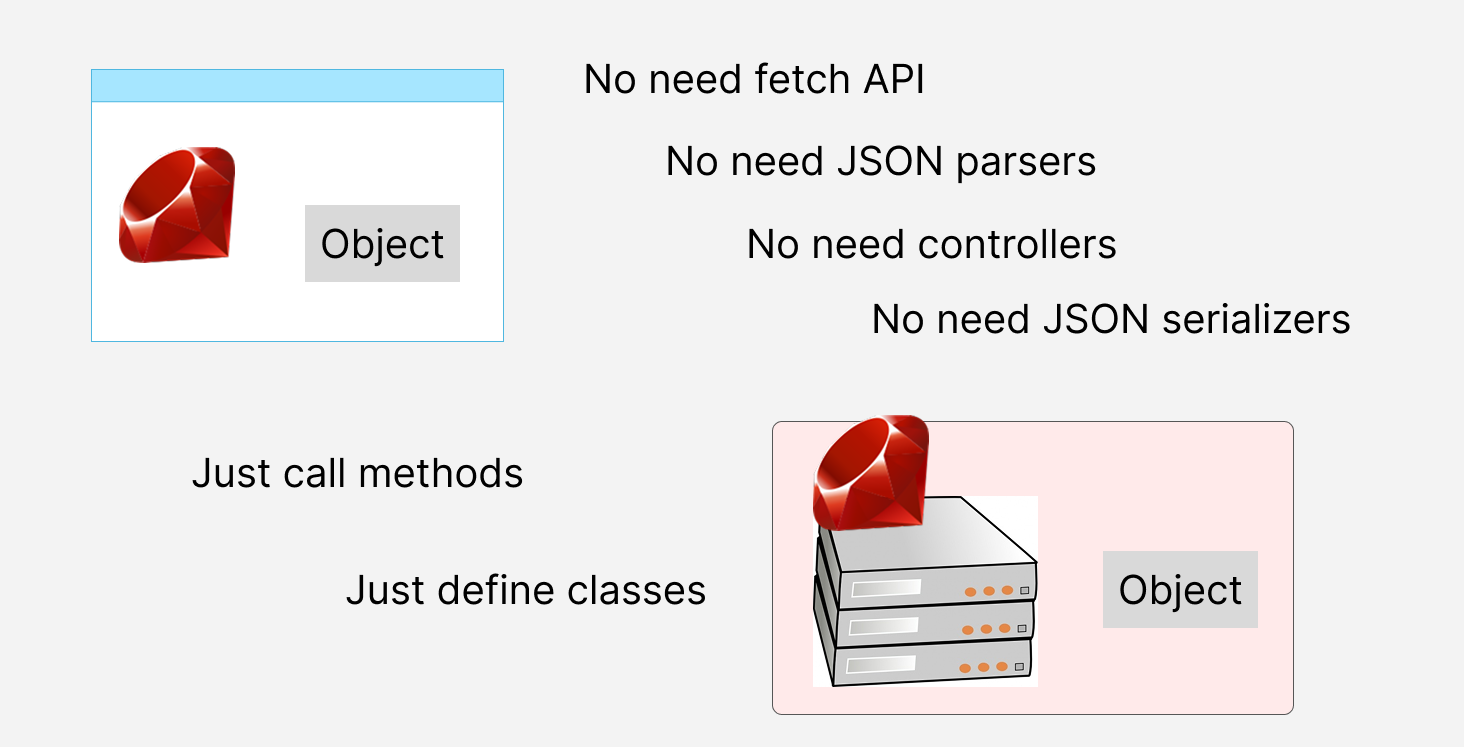
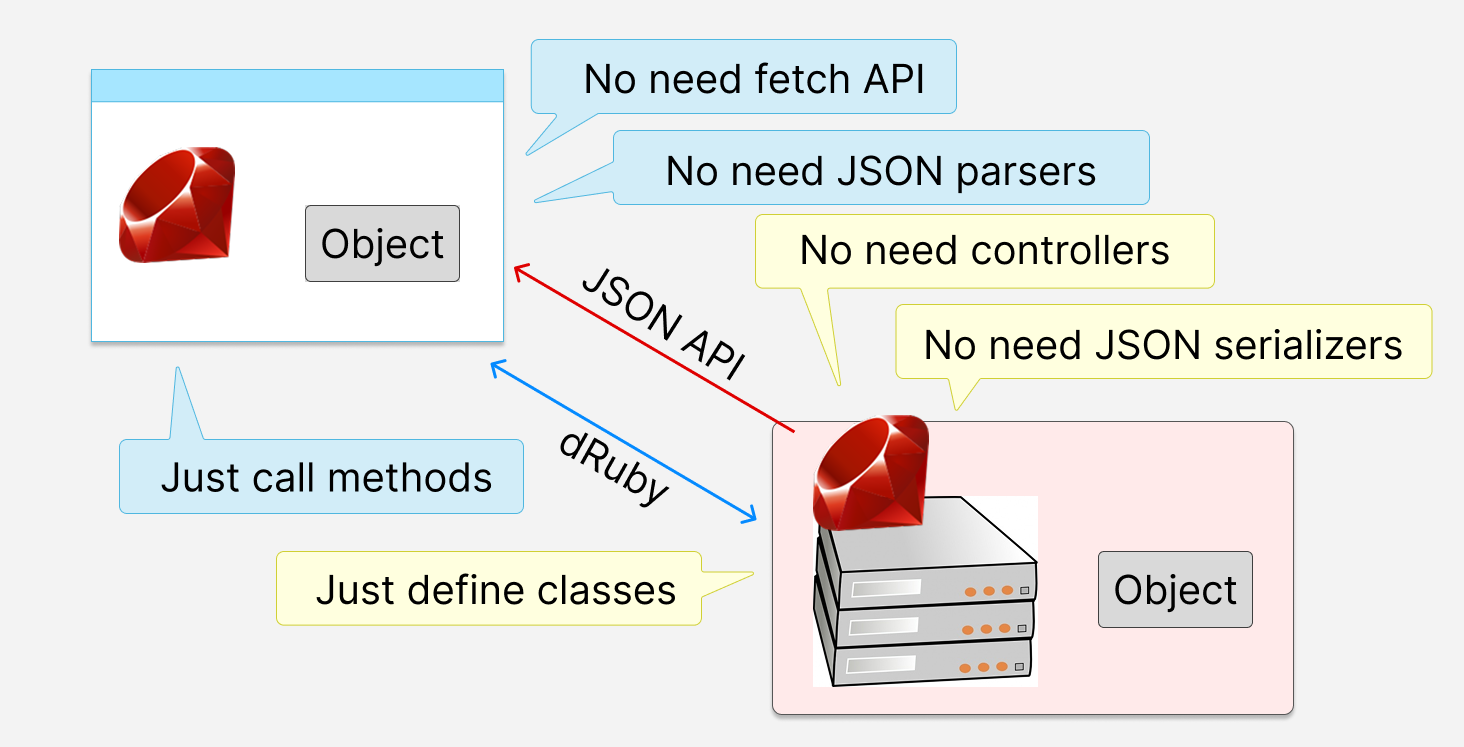
Slide update

diff --git a/public/css/custom.css b/public/css/custom.css
@@ -9,20 +9,72 @@
 }
 
 #cover .page-header {
-  top: 20%;
+  top: 12%;
 }
 
 .slide .page-header {
   margin-top: 2em;
-  margin-bottom: 1em;
+}
+
+#cover .page-content {
+  position: relative;
+  margin-top: 3em;
 }
 
 #cover .author {
-  margin-top: 4em;
-  left: 25m;
+  position: relative;
+  float: right;
+  margin-top: 3em;
+  right: 3em;
 }
 
 #cover .icon {
   position: relative;
-  left: 25em; 
+  top: 10px;
+  left: 30em; 
+}
+
+#cover .icon img {
+  width: 128px;
+}
+
+.QR img {
+  margin: auto;
+  display: block;
+  width: 35%;
+}
+
+.whats_ruby_wasm img {
+  margin: auto;
+  display: block;
+}
+
+.whats_druby img {
+  margin: auto;
+  display: block;
+  width: 80%;
+}
+
+.No_need_JSON_API img {
+  margin: auto;
+  display: block;
+  width: 80%;
+}
+
+.Share_objects img {
+  margin: auto;
+  display: block;
+  width: 80%;
+}
+
+.gibier2 img {
+  margin: auto;
+  display: block;
+  width: 75%;
+}
+
+.center {
+  text-align: center;
+  font-size: 120%;
+  margin-top: 2em;
 }

diff --git a/slide.md b/slide.md
@@ -1,6 +1,9 @@
 # dRuby on Browser Again! {#cover}
 %author: Yoh Osaki a.k.a @youchan
+%author: Shigeru Nakajima a.k.a @ledsun
 ![icon](images/youchan_square.jpeg)
+![icon](images/ledsun.png)
+
 ## Who am I
 
 - youchan
@@ -15,25 +18,25 @@
 
 ---
 
-![ruby.wasm loves dRuby](images/ruby.wasm_loves_dRuby.png)
+![ruby.wasm_loves_dRuby](images/ruby.wasm_loves_dRuby.png)
 
 ## What's ruby.wasm
 
-![what's ruby.wasm](images/whats_rubywasm.png)
+![whats_ruby_wasm](images/whats_rubywasm.png)
 
 ## What's dRuby
 
-![what's dRuby](images/whats_druby.png)
+![whats_dRuby](images/whats_druby.png)
 
 # Why? dRuby with ruby.wasm
 
 ## No need JSON API
 
-![No need JSON API](images/no_need_json_api.png)
+![No_need_JSON_API](images/no_need_json_api.png)
 
 ## Easy to share objects inter browsers
 
-![Share objects](images/share_objects.png)
+![Share_objects](images/share_objects.png)
 
 # Demo
 
@@ -74,9 +77,13 @@ remote.each do |x|
 end
 ```
 
-# Demo
+## Demo
+
+![QR](images/qr-niconico-drb.svg)
 
 ## Gibier2
+
+![gibier2](images/gibier2.png)
 
 ## Async probrems
 - The interface changes depending on whether it is stub object or not.
@@ -103,6 +110,14 @@ buttonel.addEventListener('click') do
   end.transfer
 end
 ```
+## Conclusion
+
+- The advantages of combining dRuby and ruby.wasm were explained.
+- I introduced `drb-websocket` and `wasm_drb`, a set of tools to realize dRuby in Browser.
+- The demonstrations and the tool were presented to show how it actually work.
+- I pointed out the asynchronous issues in ruby.wasm.
+
+%center: Enjoy next @ledsun's presentation.
 
 # @ledsun's part
 
